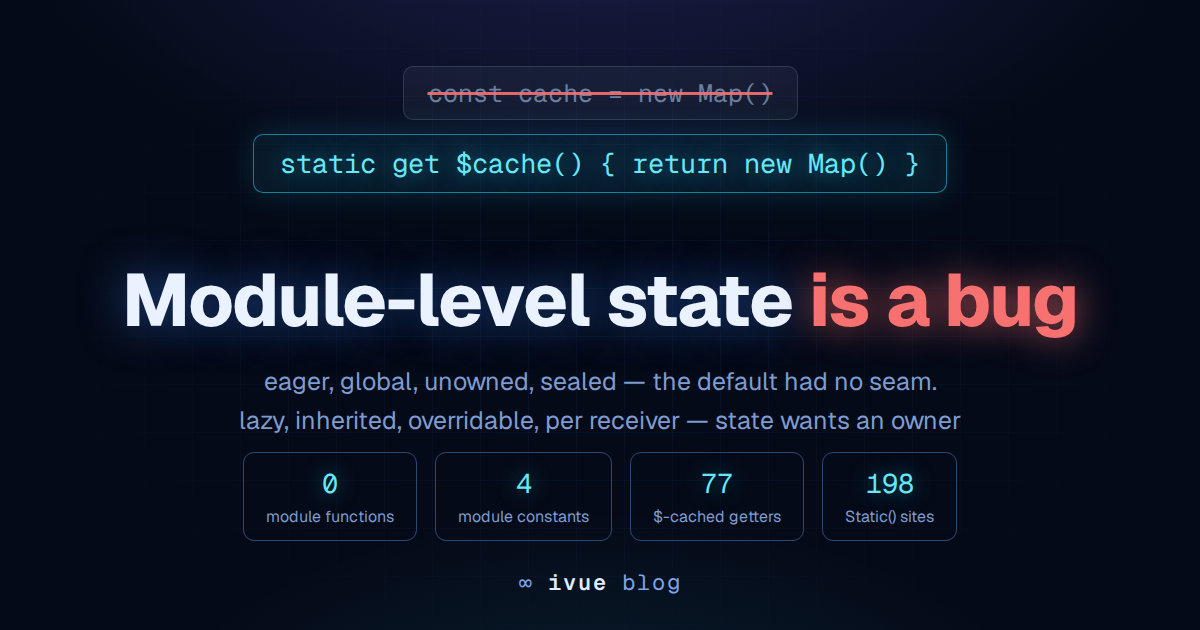
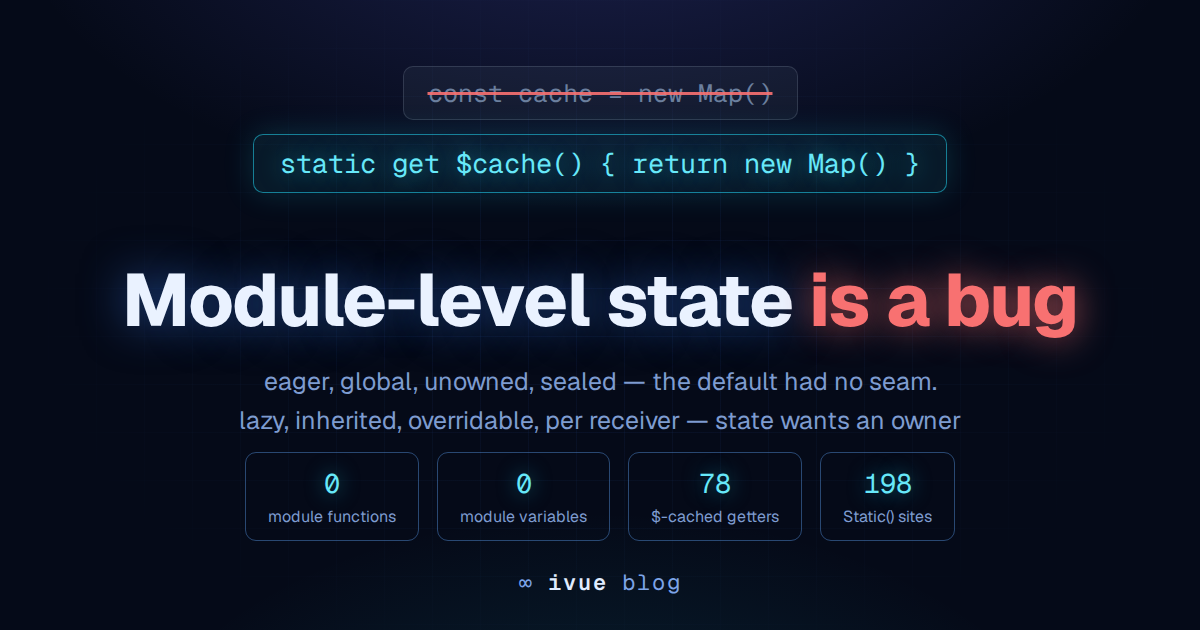
blog: module-state zeros land — the four constants moved home

diff --git a/.claude/skills/blog-banner/banners/module-level-state.html b/.claude/skills/blog-banner/banners/module-level-state.html
@@ -97,8 +97,8 @@
   <div class="sub">eager, global, unowned, sealed — the default had no seam.<br/>lazy, inherited, overridable, per receiver — state wants an owner</div>
   <div class="stats">
     <div class="stat"><span class="n">0</span><span class="l">module functions</span></div>
-    <div class="stat"><span class="n">4</span><span class="l">module constants</span></div>
-    <div class="stat"><span class="n">77</span><span class="l">$-cached getters</span></div>
+    <div class="stat"><span class="n">0</span><span class="l">module variables</span></div>
+    <div class="stat"><span class="n">78</span><span class="l">$-cached getters</span></div>
     <div class="stat"><span class="n">198</span><span class="l">Static() sites</span></div>
   </div>
   <div class="brand">∞ <b>ivue</b> blog</div>

diff --git a/docs_v2/blog/module-level-state.md b/docs_v2/blog/module-level-state.md
@@ -1,6 +1,6 @@
 ---
 title: 'Module-level state is a bug'
-description: The most normal line in JavaScript — const cache = new Map() at module scope — is an eager, global, unownable singleton with no seam. Static() replaces it with one declaration that is lazy, inheritable, overridable, and test-isolated. A 94,000-line codebase runs on zero module-level functions and four module-level constants.
+description: The most normal line in JavaScript — const cache = new Map() at module scope — is an eager, global, unownable singleton with no seam. Static() replaces it with one declaration that is lazy, inheritable, overridable, and test-isolated. A 94,000-line codebase runs on zero module-level functions and zero module-level variables.
 date: 2026-08
 ---
 
@@ -97,7 +97,7 @@ The pattern would be a curiosity if it only held memo tables. What
 makes it a substrate is that *one declaration form* absorbs every
 kind of module-level state a real system accumulates.
 [Invar](/blog/introducing-invar) — the 94,000-line terminal IDE
-built on ivue — runs 77 of these getters. A ladder of real cases,
+built on ivue — runs 78 of these getters. A ladder of real cases,
 smallest to strangest:
 
 **A memo table.** The wrap index above is Invar's own text-layout
@@ -203,22 +203,26 @@ serious codebase can run with **no module-level state at all** — and
 one does. Invar's conventions are machine-enforced by AST census
 (checkers that must first detect a planted violation before their
 pass counts — a boundary check that cannot fail is worse than none).
-Counted 2026-08-10, over 94,043 source lines and 372 files:
+Counted 2026-08-11, over 94,054 source lines and 372 files:
 
 ```
 module-level functions:      0
-module-level variables:      4   (all constants — see below)
-$-cached static getters:    77
+module-level variables:      0
+$-cached static getters:    78
 Static() capability sites: 198
 ```
 
-The four surviving module-level declarations are validation
-constants in one manifest file — regular expressions and a reserved-
-name `Set`. Frozen data, not state: nothing writes to them, nothing
-would want to substitute them. That is the boundary drawn honestly —
-**the target is state, not constants.** A pure lookup table at
-module scope harms nobody. The moment a value is written after
-load, or a test wishes it were different, it belongs to a class.
+The zero is stricter than it had to be. The honest boundary of this
+pattern is that **the target is state, not constants** — a frozen
+lookup table at module scope harms nobody. Invar draws the line past
+even that: its validation constants — regular expressions, a
+reserved-name `Set` — live as static getters on the class that
+validates with them, so the metric is not "zero state, with constant
+exceptions." It is zero module-level declarations outright, held
+there by a grammar check that counts every violation by AST. The
+moment a value is written after load, or a test wishes it were
+different, it already belongs to a class — and here, everything
+does.
 
 And the substrate is load-bearing enough that Invar *verifies it at
 boot*: startup constructs a throwaway class with a `$TABLE` getter,
